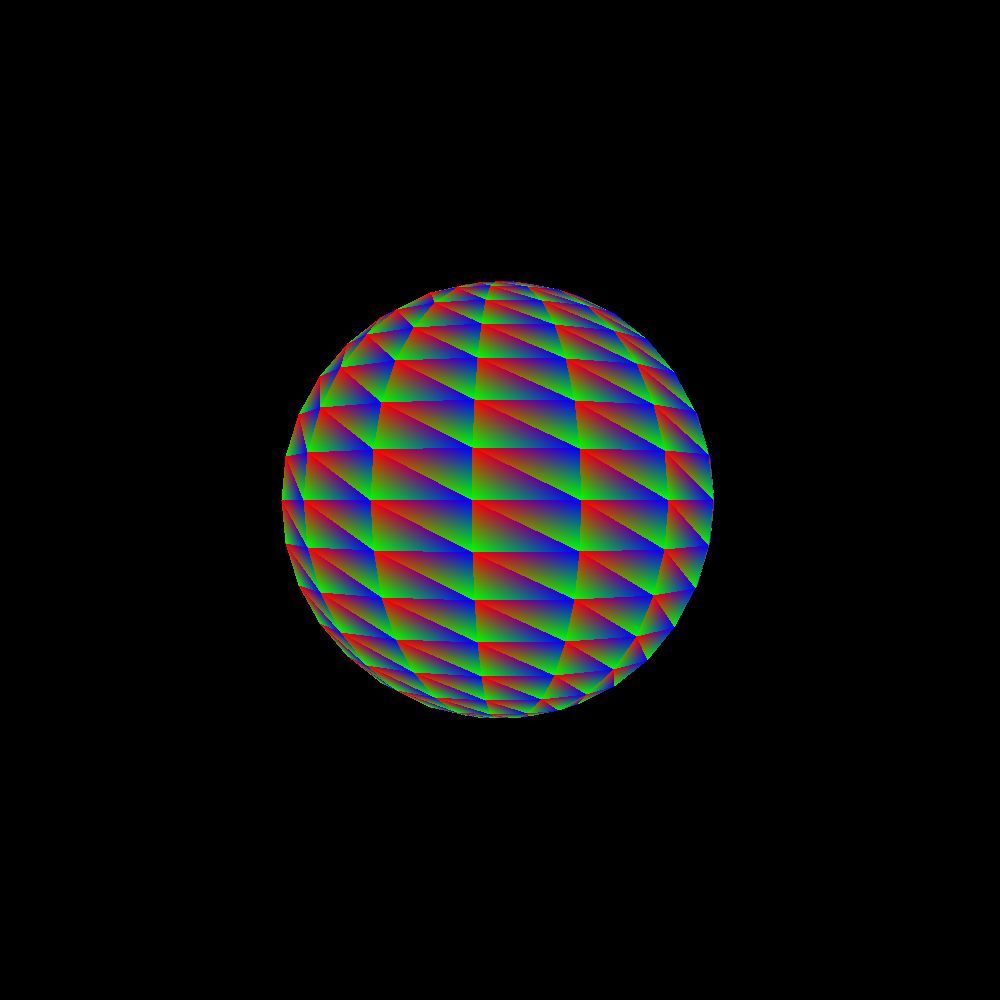
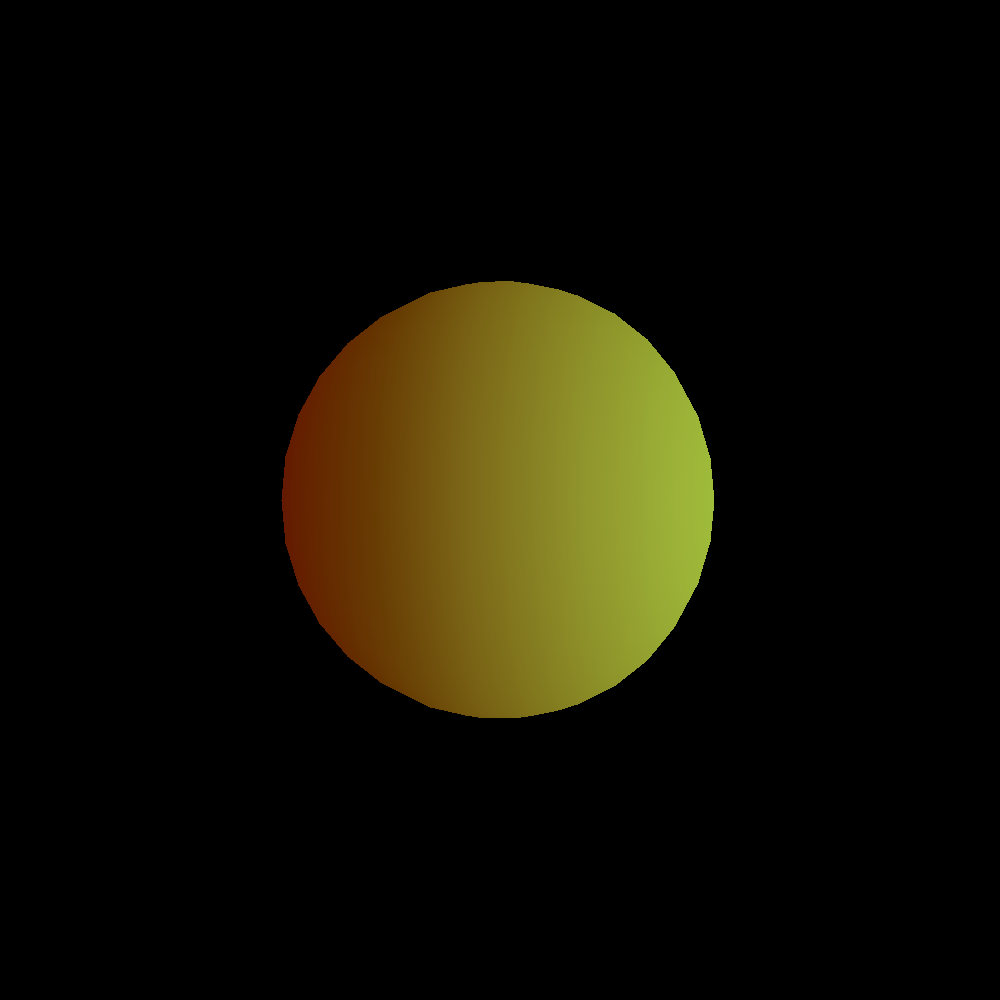
Fixed rendering light after transformation

Changed region(s): [[0.279, 0.279, 0.713, 0.744]]

diff --git a/Zad1/DirectionalLight.cpp b/Zad1/DirectionalLight.cpp
@@ -1,4 +1,5 @@
 #include "DirectionalLight.h"
+#include <iostream>
 
 void DirectionalLight::Calculate(Matrix4& camera, Matrix4& obj2view, int& vSize, std::vector<Vector3>& normals, std::vector<Vector3>& vertices, std::vector<Vector3>& color, std::vector<Vector3>& indices, std::vector<Triangle>& triangles)
 {
@@ -6,35 +7,40 @@ void DirectionalLight::Calculate(Matrix4& camera, Matrix4& obj2view, int& vSize,
 	for (int i = 0; i < vSize; ++i)
 	{
 		Matrix4 model;
-		//model = model.Translate(model, Vector3(0, 0, 8));
-		//model = model.Rotate(model,Vector3(1, 0, 0), 90);
-		Vector4 g = Vector4(normals[i], 1);
-		Vector4 p = Vector4(-vertices[i], 1);
+		model = model.Translate(model, Vector3(1, 0, 9));
+		//model = model.Rotate(model,Vector3(1, 0, 0), 45);
+		Vector4 g = obj2view * camera * model * Vector4(normals[i], 1);
+		Vector4 p = obj2view * camera * model * Vector4(-vertices[i], 1);
 		Vector3 N = Vector3(g.x, g.y, g.z);
 		N = N.Normalize();
 		Vector3 V = Vector3(p.x, p.y, p.z);
-		Vector3 fg = Vector3(3, 0, 1);
-		//fg = fg.Normalize();
-		Vector3 R = fg - (N * 2 * (Vector3::Dot(fg, N)));
+
+		Vector3 xd = Vector3(1, 0, 0);
+		Vector4 gg = obj2view * camera * Vector4(xd, 1);
+		Vector3 fg = Vector3(gg.x, gg.y, gg.z);
+		fg = fg.Normalize();
+		Vector3 R = (N * 2 * (Vector3::Dot(fg, N))) - fg;
 		float diff = Vector3::Dot(fg, N);
 		float specular = Vector3::Dot(R, V);
-
-		if (diff < 0) diff = 0;
-		if (diff > 1) diff = 1;
+		//specular = 1 / specular;
+		std::cout << specular << "\n";
+		//if (diff < 0) diff = 0;
+		//if (diff > 1) diff = 1;
 		Vector3 spec;
 		if (specular > 0) {
 			specular = pow(specular, 1);
 
-			spec = Vector3(0, 0, 255) * specular * 0.1;
+			spec = Vector3(255, 255, 255) * specular * 0.03;
 		}
 		else { spec = Vector3(0, 0, 0); }
+		
 		//if (specular < 0) specular = 0;
 		//if (specular > 0) specular = 1;
 
-		Vector3 dif = Vector3(180, 0, 0) * diff;
+		Vector3 dif = Vector3(0, 255, 0) * diff;
 
 		Vector3 amb(100, 0, 0);
-		color.push_back( dif + amb + spec);
+		color.push_back( dif + amb + spec );
 		if (color[i].x > 255) color[i].x = 255;
 		if (color[i].y > 255) color[i].y = 255;
 		if (color[i].z > 255) color[i].z = 255;

diff --git a/Zad1/RenderingAlghortims.cpp b/Zad1/RenderingAlghortims.cpp
@@ -33,9 +33,6 @@ int main()
 	Matrix4 camera;
 	camera = camera.LookAt(Vector3(0, 0, 0), Vector3(0, 0, 10), Vector3(0, 1, 0));
 
-	DirectionalLight dl;
-	//dl.Calculate(camera, obj2view, sphere.vSize, sphere.normals, sphere.vertices, sphere.colors, sphere.indices, sphere.triangles);
-
 	for (auto& t : sphere.triangles)
 	{
 		t.SetTranslation(Vector3(0, 0.0f, 5));
@@ -43,18 +40,9 @@ int main()
 		t.SetView(obj2view, camera);
 	}
 
-	//for (auto& t : cylinder.triangles)
-	//{
-	//	t.SetTranslation(Vector3(0, -1.0f, 5));
-	//	t.SetRotation(Vector3(1, 0, 0), 20);
-	//	t.SetView(obj2view, camera);
-	//}
-	//for (auto& t : cone.triangles)
-	//{
-	//	t.SetTranslation(Vector3(2, -0.5f, 5));
-	//	t.SetRotation(Vector3(1, 0, 0), 20);
-	//	t.SetView(obj2view, camera);
-	//}
+	DirectionalLight dl;
+	dl.Calculate(camera, obj2view, sphere.vSize, sphere.normals, sphere.vertices, sphere.colors, sphere.indices, sphere.triangles);
+
 	std::vector<Mesh> figures;
 	figures = { sphere};
 	for (int i = 0; i < HEIGHT; i++)
